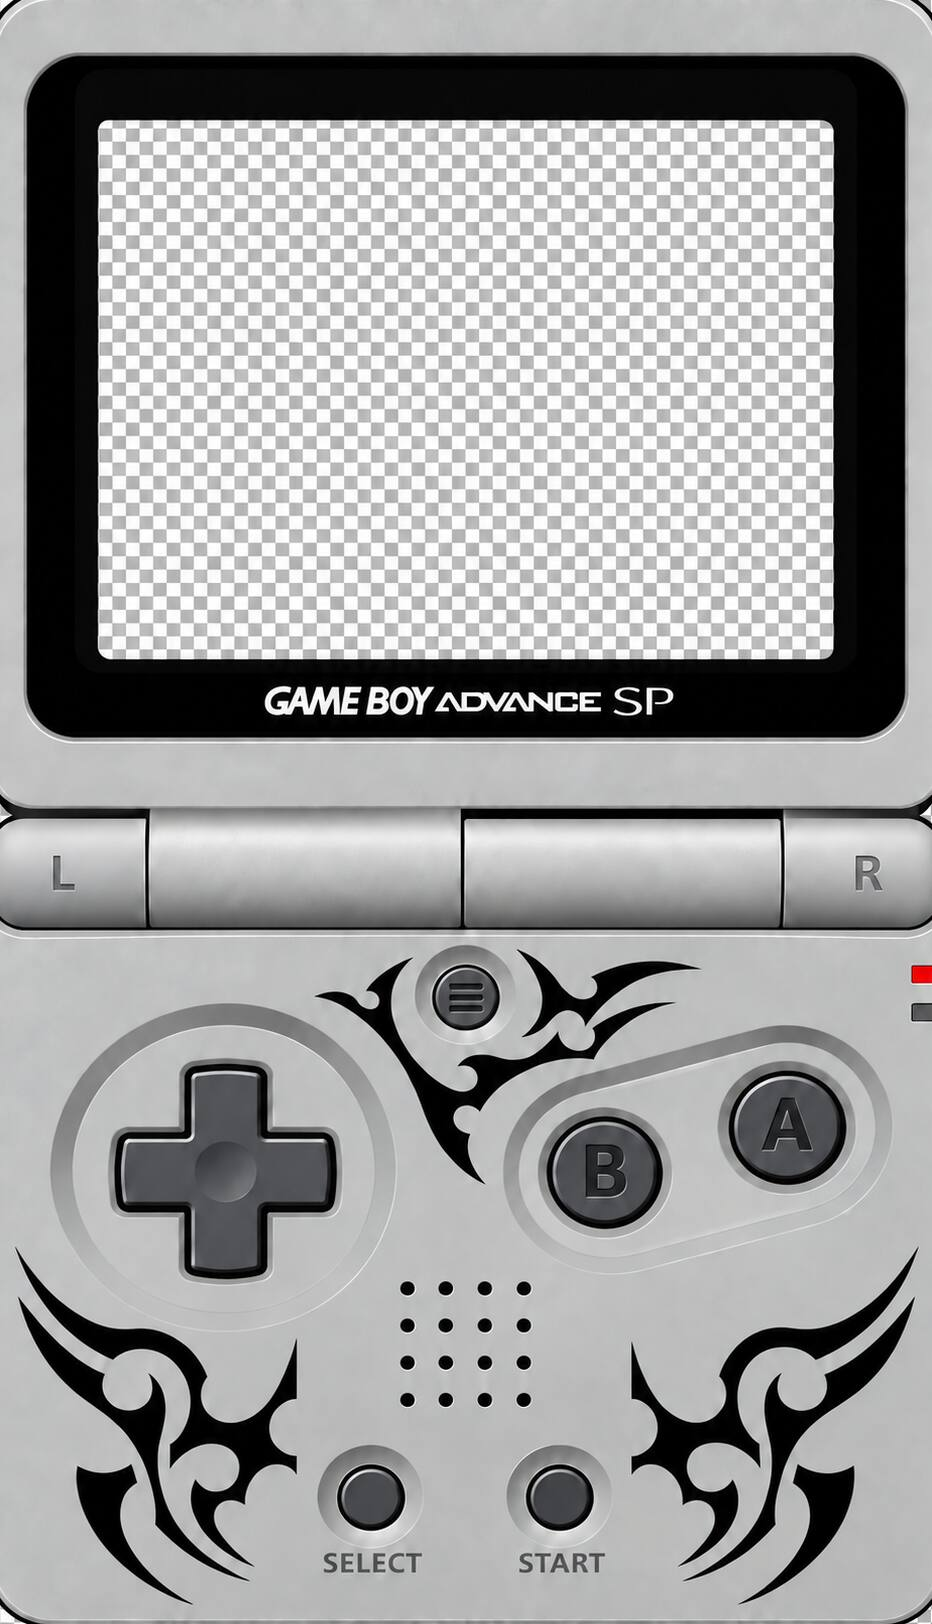
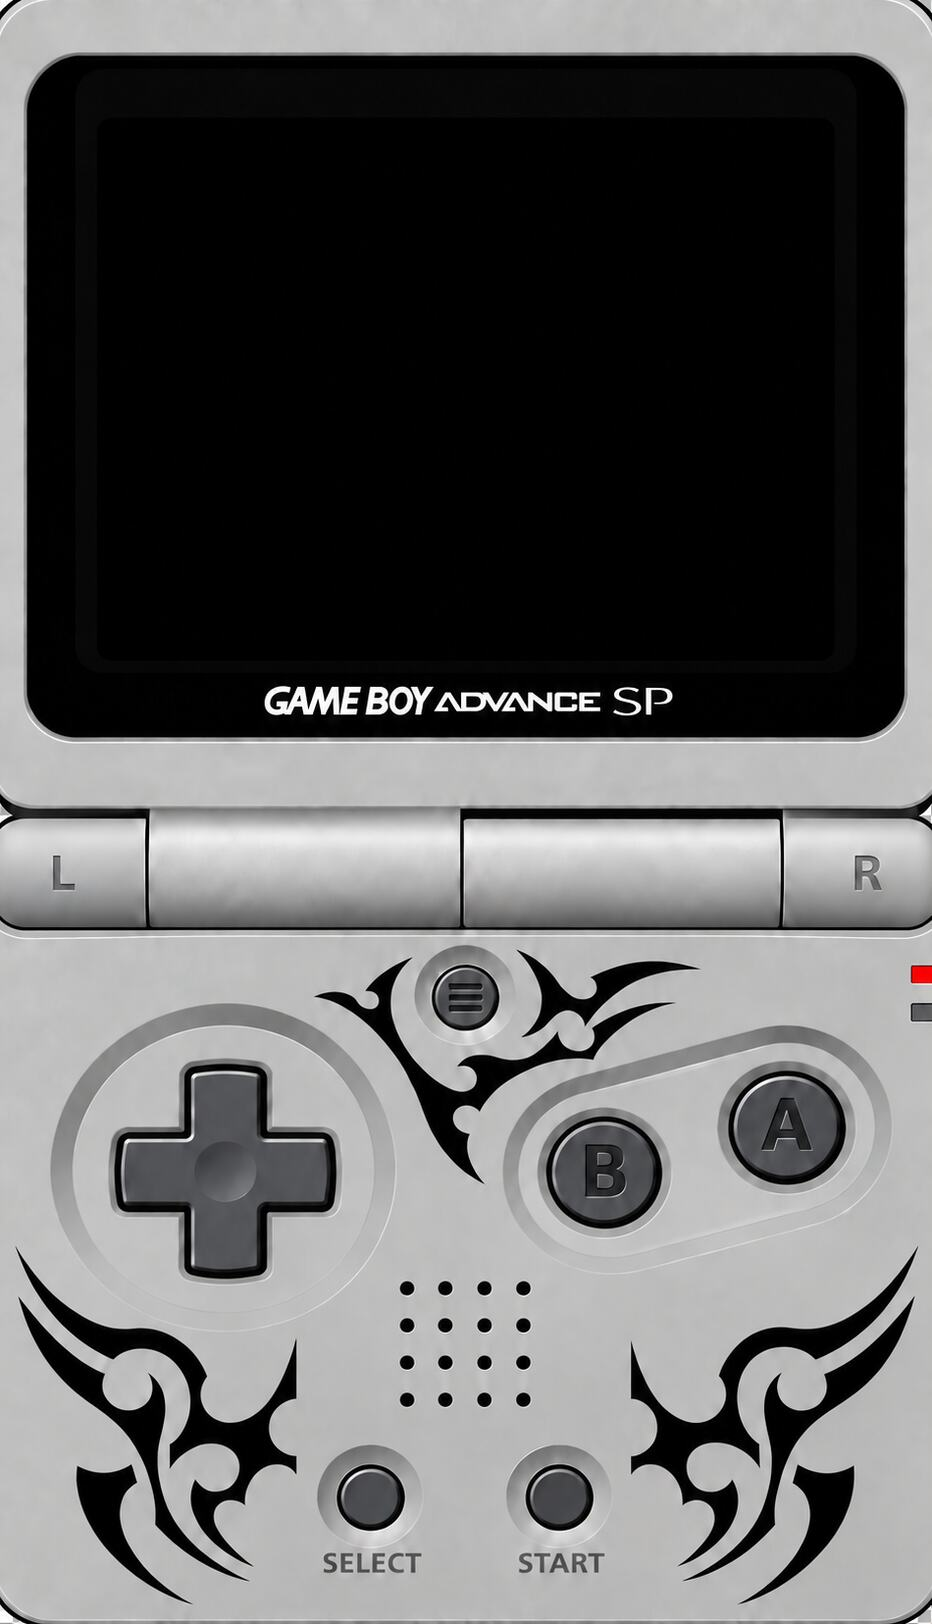
Center SP display and remove checkerboard

diff --git a/style.css b/style.css
@@ -1937,7 +1937,7 @@ line-height: 1;
 @media (orientation: portrait) {
   body.sp-skin-test { min-height:100dvh; overflow:hidden; background:#080a0d; }
   body.sp-skin-test .app { position:relative; width:100vw; height:100dvh; min-height:0; padding:0; overflow:hidden; background:#080a0d; }
-  body.sp-skin-test .app::before { content:""; position:absolute; inset:0; z-index:2; pointer-events:none; background:url("assets/gba-sp-silver.jpg?v=2") center/100% 100% no-repeat; }
+  body.sp-skin-test .app::before { content:""; position:absolute; inset:0; z-index:2; pointer-events:none; background:url("assets/gba-sp-silver.jpg?v=3") center/100% 100% no-repeat; }
   body.sp-skin-test .sp-top-labels { position:absolute; left:11.5%; right:11.5%; top:4.55%; z-index:5; display:grid; grid-template-columns:1fr auto 1fr; align-items:center; color:#f5f5f5; font-size:clamp(8px,2.35vw,15px); line-height:1; font-weight:700; pointer-events:none; text-shadow:0 1px 2px #000; }
   body.sp-skin-test .sp-power-label { justify-self:start; }
   body.sp-skin-test .sp-battery-label { justify-self:end; }
@@ -1950,7 +1950,7 @@ line-height: 1;
   body.sp-skin-test .brand { display:none; }
   body.sp-skin-test #menu-button { position:absolute; left:50%; top:60.75%; width:9.2vw; height:9.2vw; min-width:34px; min-height:34px; max-width:54px; max-height:54px; padding:0; transform:translate(-50%,-50%); opacity:.001; pointer-events:auto; }
   body.sp-skin-test .console { z-index:3; display:block; pointer-events:none; }
-  body.sp-skin-test .screen-frame { position:absolute; left:11.48%; top:7.94%; z-index:3; width:77.04%; height:32.82%; aspect-ratio:auto; margin:0; border-radius:2.1vw; background:#000!important; box-shadow:none; overflow:hidden; pointer-events:auto; }
+  body.sp-skin-test .screen-frame { position:absolute; left:50%; top:7.94%; z-index:3; width:77%; height:32.82%; aspect-ratio:auto; margin:0; border-radius:2.1vw; background:#000!important; box-shadow:none; overflow:hidden; pointer-events:auto; transform:translateX(-50%); }
   body.sp-skin-test #screen { position:relative; z-index:1; width:100%; height:100%; object-fit:fill; background:#000!important; }
   body.sp-skin-test .controls { z-index:7; display:block; pointer-events:none; }
   body.sp-skin-test .controls button { position:absolute!important; margin:0!important; padding:0!important; border:0!important; background:transparent!important; box-shadow:none!important; color:transparent!important; opacity:.001; pointer-events:auto; }

diff --git a/index.html b/index.html
@@ -9,7 +9,7 @@
   <meta name="theme-color" content="#10141b">
   <title>ML3Demuler</title>
 
-  <link rel="stylesheet" href="style.css?v=sp-skin-3">
+  <link rel="stylesheet" href="style.css?v=sp-skin-4">
   <link rel="stylesheet" href="EnhancedFeatures.css?v=dbdd4660">
 </head>
 
